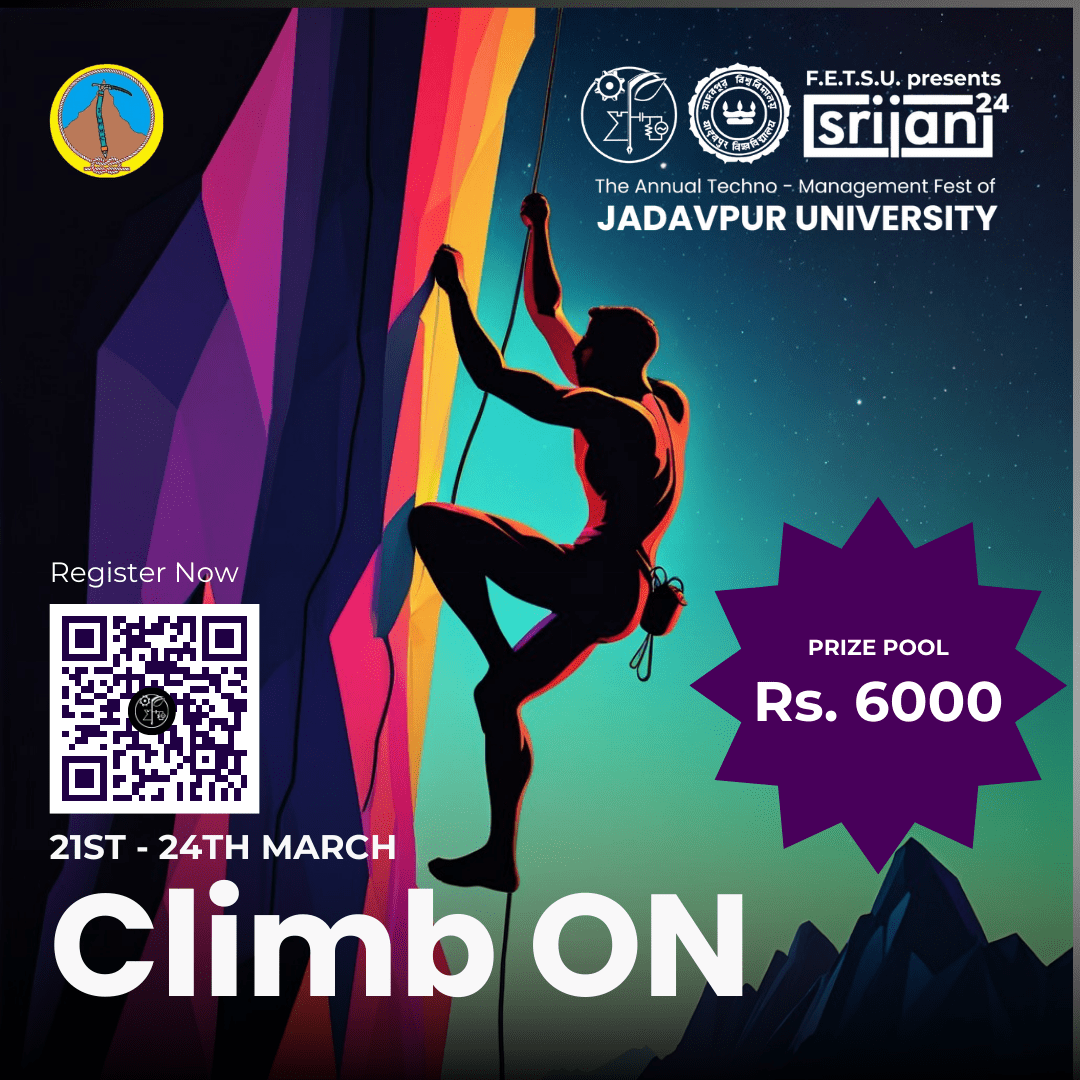
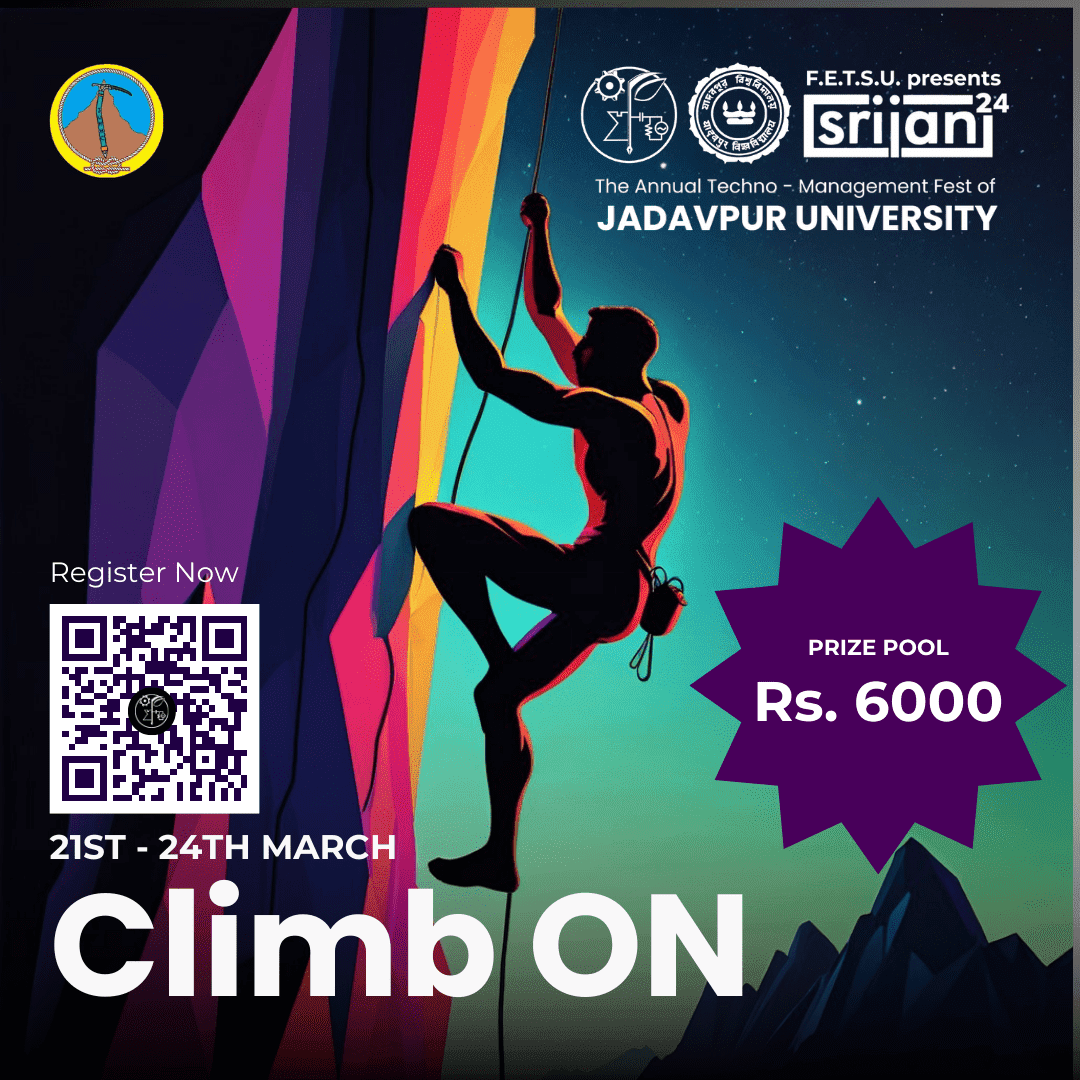
Added PTB event details ,  fixed navbar a bit to show events in dashboard , added whatsapp share button in events , display whatsapp join group link if registered by user and provided by organisers , compressed existing posters a little

diff --git a/src/utils/AllEvents.js b/src/utils/AllEvents.js
@@ -13,7 +13,7 @@ const events = [
             'Sounak Ghosh [ 8910272026 ]',
             'Sushmit Dasgupta [ 8100145170 ]',
         ],
-        prize: ['1st : 5000   |   ', '2nd : 3000  |   ', '3rd : 2000 '],
+        prize: ['1st : 5000      ', '2nd : 3000     ', '3rd : 2000 '],
         minMembers: 1,
         maxMembers: 3,
         eventPoster: '/images/events/openalmer[1]-01.jpg',
@@ -362,7 +362,7 @@ const events = [
         prize: ['Exciting prizes(TBD) for the top 3 winning teams'],
         minMembers: 3,
         maxMembers: 3,
-        eventPoster: '/images/events/sherlocked.png',
+        eventPoster: '/images/events/sherlocked.jpg',
         registrationType: `Srijan'24 Website`,
         eventShortDescription: `Sherlocked: A thrilling coding and puzzle-solving challenge. Prelims feature 10 puzzles and 2 coding questions. Top teams advance to a multi-level 2-hour Finals for ultimate victory.`,
         eventDescription: [
@@ -1211,6 +1211,52 @@ const events = [
                 'Top participants from each slot in the prelims round will qualify for the finals.',
                 'For both the rounds, the participants will be presented with a case along with clues using which they have to identify the perpetrator(s). The case will progress stepwise where the participants will be provided with more hints as the case progresses, ultimately leading to a conclusion.',
                 'The decision of the organizing committee shall be final and binding. No further queries in this regard shall be entertained.',
+            ],
+        },
+    },
+    {
+        eventId: 'ptb',
+        eventName: 'Pass The Baton',
+        eventDate: {
+            prelims: ['TBD'],
+            finals: 'TBD',
+        },
+        eventType: 'coding',
+        eventHashtags: ['#Coding', '#TeamEvent', '#Competitive_Programming'],
+        eventCoordinators: [
+            'Vikash Sangai [ 9432140409 ]',
+            'Anupam Ghosh [ 7548005727 ]',
+        ],
+        prize: [
+            'First place – TBD',
+            'Second place – TBD',
+            'Third place – TBD',
+            'Best UG1 team – TBD',
+        ],
+        minMembers: 3,
+        maxMembers: 3,
+        eventPoster: '/images/events/ptb.jpeg',
+        registrationType: "Srijan'24 Website",
+        eventShortDescription:
+            "Team based coding event, where team members take turns completing each other's codes.",
+        eventDescription: [
+            `'Life isn't a race. It's a relay.'` ,
+            `FETSU presents Srijan' 24 by Jadavpur University brings to you 'Pass The Baton', that requires not only coding skills but also proper understanding between team members. The name being a subtle giveaway, 'Pass The Baton' can be deemed as the relay race in the coding community, where coders take turn in solving the same problem.  One match! Three Problems! Three of you! Don't forget to pass the baton, let's see if you play the odds or the man. Three of you! For it matters :)`,
+        ],
+        groupLink: 'https://chat.whatsapp.com/It9dEQMboZM01Dk9iWAQLd',
+        eventRules: {
+            '': [
+                'Each participant should be a college student. Inter-college teams are allowed.',
+                'The team size should be exactly 3.',
+                'All submissions are run through a plagiarism detector. Any case of code plagiarism will disqualify the team from the contest. Please refrain from discussing strategy during the contest.',
+                'The first round (Prelims) is an online ICPC styled team contest to be held on Codeforces (tentatively).',
+                'The top 15-20 teams will be moving to the Finals.',
+                'The final round of Pass the Baton will be a 2-hour long offline event held on Hackerrank. It will be divided into 4-time slots. All slots will be of 30 minutes each. The members of the team will interchange after the end of each slot and will continue with the code written by their teammate (like if 3 Members start in the 1st slot as ABC, then in the 2nd slot it will be BCA and in the 3rd time slot as CAB). Then in the final slot of 30 minutes, everyone assembles and solves the problems together.',
+                "For the finals, only submissions made through the team lead's hackerrank account will be considered. Submissions from any other account will not be considered.",
+                'For the finals, you need to code in the IDE provided in the platform only. Opening any other tabs would lead to disqualification.',
+                'Winners and prizes will be declared after carefully going through all the codes.',
+                'In case of any conflicts, the decision of Code Club JUSL officials will be final and binding.',
+                'Prize for the Best UG1 team will only be provided if there are at least 3 such competing teams in the finals.',
             ],
         },
     },

diff --git a/src/app/events/[events_id]/page.js b/src/app/events/[events_id]/page.js
@@ -14,6 +14,8 @@ import { getEventById } from '@/utils/event'
 import BeatLoader from 'react-spinners/BeatLoader'
 import UserHOC from '@/hoc/UserHOC'
 import InvitationModal from '@/components/EventComponents/InvitationModal'
+import { FaWhatsapp } from 'react-icons/fa';
+
 
 const page = ({ params }) => {
     const router = useRouter()
@@ -166,6 +168,12 @@ const page = ({ params }) => {
     const iconMap = {
         user: <BsPeople />,
     }
+    
+    //WhatsApp URL
+    const websiteUrl = `https://srijanju.in/events/${events_id}`;
+    const shareText = `Check out this event: ${eventData.eventName}\n\n ${eventData.eventDescription}\n\nHead over to: ${websiteUrl} for exploring it!`;
+    const shareUrl = `https://wa.me/?text=${encodeURIComponent(shareText)}`;
+
 
     return (
         <div className='bg-gradient-to-br from-black via-sky-950 to-black text-white min-h-screen flex justify-center items-center font-body'>
@@ -295,13 +303,56 @@ const page = ({ params }) => {
                                 Click <Link href={eventData.documentLink} className='documentLink'>here</Link> to know more about this event
                             </p>
                         </div>}
+
+                             
+
                         {eventData && eventData.websiteLink && <div className='flex flex-col p-3 shadow-2xl '>
-                            <p className='text-sm md:text-base eventDesc webLinkContainer'>
-                                <Link href={eventData.websiteLink} className='websiteLink'>Access Website</Link>
-                            </p>
-                        </div>}
+                                <p className='text-sm md:text-base eventDesc webLinkContainer'>
+                                    <Link href={eventData.websiteLink} className='websiteLink'>Access Website</Link>
+                                </p>
+                            </div>}
+                        </div>
                     </div>
-                </div>
+
+                    
+                    <div>
+  <div className="flex items-center justify-center space-y-4">
+ {eventData && eventData.groupLink && user && profileUpdated && eventStatus !== 'not registered' && (
+  <div className='flex flex-col p-3 shadow-2xl border border-solid border-gray-300 rounded-md transition-all duration-500 ease-in-out hover:backdrop-blur-md'>
+    <p className='eventDesc text-sm md:text-base'>
+      Click{' '}
+      <Link
+        href={eventData.groupLink}
+        className='documentLink'
+        target='_blank'
+        rel='noopener noreferrer'
+      >
+        here
+      </Link>{' '}
+      to join the official WhatsApp group for the event {eventData.eventName}
+    </p>
+  </div>
+)}
+
+
+  </div>
+
+  <div className="flex justify-center">
+  <div>
+    <a href={shareUrl} target='_blank' rel='noopener noreferrer' className="flex items-center text-blue-500 p-2">
+      <FaWhatsapp style={{ color: "#36d9a8" }} className="w-6 h-6" />
+      <span className="text-base ml-2 font-semibold">Share on WhatsApp</span>
+    </a>
+  </div>
+</div>
+</div>
+
+
+
+
+
+
+         
                 {user ? (
                     user && profileUpdated ? (
                         <div className='mt-4 flex justify-center registerNowButton'>
@@ -380,6 +431,7 @@ const page = ({ params }) => {
                     onClose={toggleInvitationModal}
                     eventId={eventData && eventData.eventId}
                 />
+                
                 <div className='bg-opacity-50 p-6 rounded-lg mt-6'>
                     <p className='mb-2'>
                         <strong className='text-lg md:text-xl'>

diff --git a/src/components/OverallNav/OverallNav.jsx b/src/components/OverallNav/OverallNav.jsx
@@ -13,7 +13,7 @@ import { useRouter } from 'next/navigation';
 import { getDownloadURL, ref, uploadBytes } from 'firebase/storage';
 import { set } from 'firebase/database';
 const montserrat = Montserrat({ subsets: ['latin'] })
-export default function OverallNav() {
+export default function OverallNav(props) {
     /*const [showNavbar, setShowNavbar] = useState(true);
     const [lastScrollY, setLastScrollY] = useState(0);
     const controlNavbar = (e)=>{
@@ -47,9 +47,9 @@ export default function OverallNav() {
                 <Link href="/"><img src="/assets/Srijan_logo.png" alt="logo"></img></Link>
             </div>
             <div className={user ? styles.box1 : styles.box2}>
-                {user ? (
+                {user ?  ( props && props.pageType !== 'dashboard' ? (
                     <Link href="/dashboard"><p>Dashboard</p></Link>
-                ) : ""}
+                ) : <Link href="/events"><p>Events</p></Link> ): ""}
                 {user ? (
                     <Link href="/notifications"><p>Notifications</p></Link>
                 ) : ""}

diff --git a/src/app/notifications/page.jsx b/src/app/notifications/page.jsx
@@ -7,7 +7,9 @@ import { getEventById } from '@/utils/event'
 import { useRouter } from 'next/navigation'
 import AuthHOC from '@/hoc/AuthHOC'
 
+import OverallNav from '@/components/OverallNav/OverallNav';
 const Notification = () => {
+    
     const router = useRouter()
     const user = useSelector(state => state.userReducer.user)
     const [invitations, setInvitations] = useState([])
@@ -100,6 +102,7 @@ const Notification = () => {
 
     return (
         <>
+            <OverallNav></OverallNav>
             <div
                 id='notificationBody'
                 className='bg-gradient-to-br from-black via-sky-950 to-black text-white min-h-screen font-body'

diff --git a/src/app/dashboard/page.js b/src/app/dashboard/page.js
@@ -11,7 +11,7 @@ const page = () => {
     const user = useSelector(state => state.userReducer.user)
     return (
         <div className={styles.body_container}>
-            <OverallNav></OverallNav>
+            <OverallNav pageType='dashboard'></OverallNav>
             <div className='bg-[url(/images/about/about.png)] flex items-center justify-center min-h-screen'>
                 <div className={styles.marquee}>
                     <div className={styles.typing}>

diff --git a/src/app/events/page.jsx b/src/app/events/page.jsx
@@ -11,7 +11,7 @@ const page = () => {
         let ids = []
         const events = getAllEvents()
 
-        for (let i = 0; i < events.length; i++) {
+        for (let i = events.length-1; i >=0 ; i--) {
             ids.push(events[i].eventId)
         }
         setEventsId(ids)
